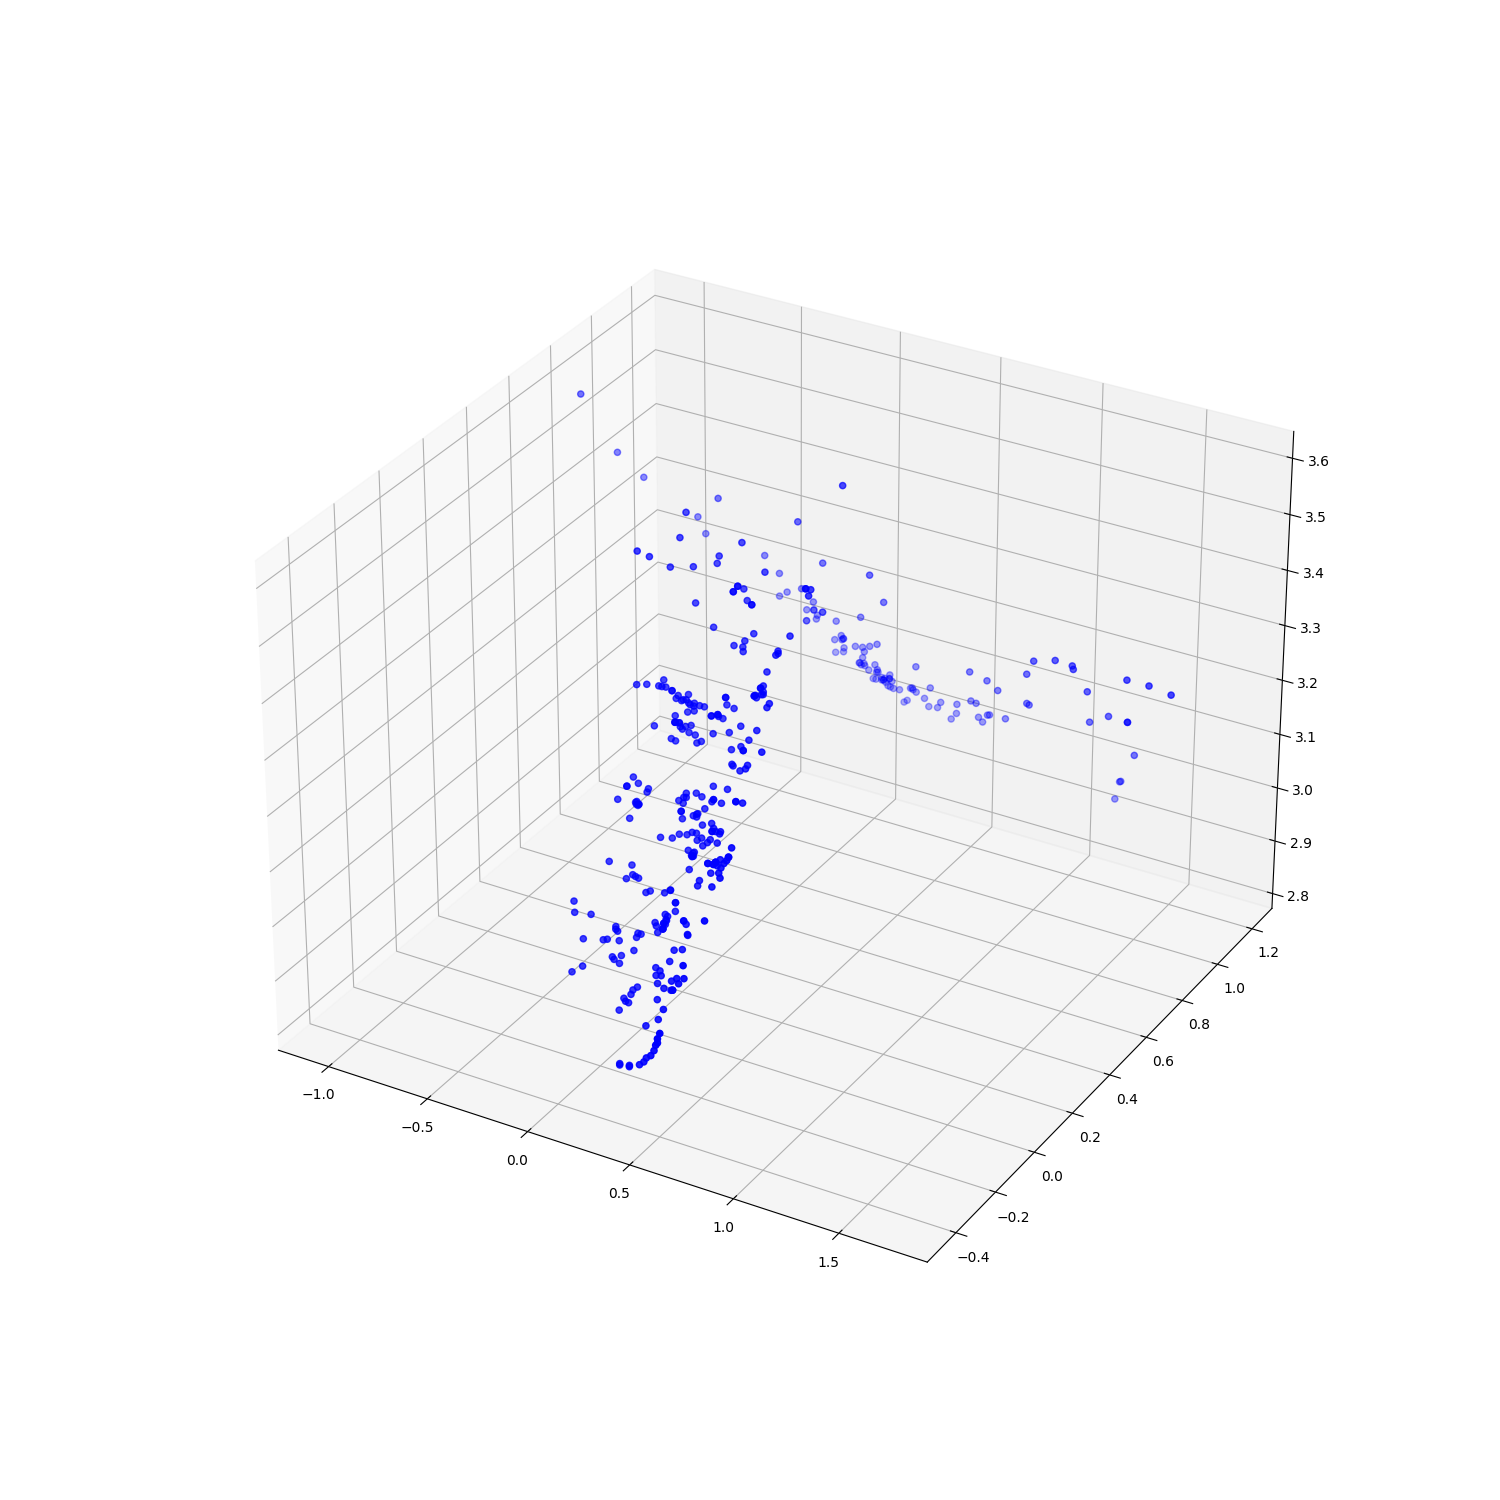
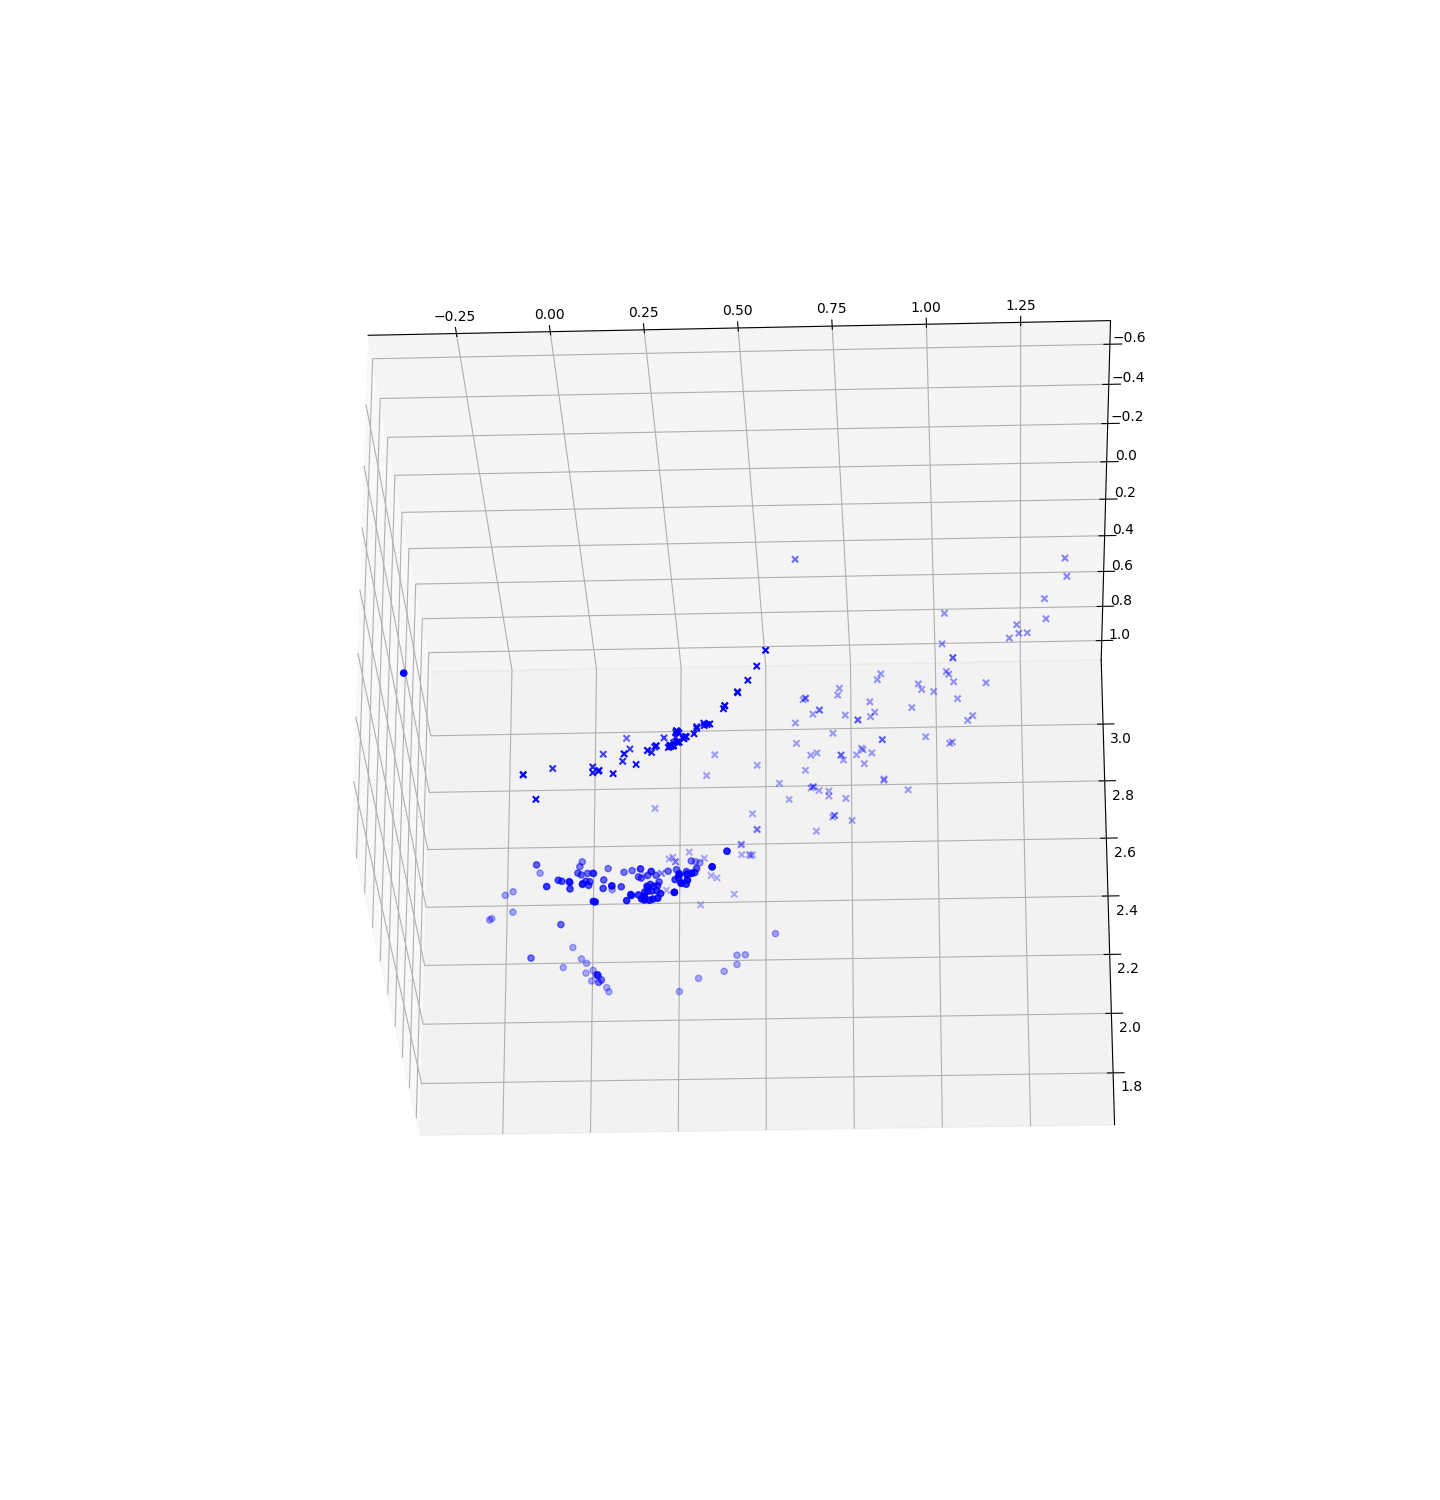
3view point cloud

diff --git a/PA2/SFM.py b/PA2/SFM.py
@@ -6,111 +6,222 @@ import matplotlib. pyplot as plt
 #%matplotlib inline
 import numpy as np
 import time
+from tqdm import tqdm
 
-img1_name = '08'
-img2_name = '09'
-img3_name = '10'
-res2 = None
+#---------setting----------
+image_num = 3
 threshold = 5.0e-5
-max_iter = 30000
+max_iter = 10000
+max_iter_pose = 3000
 inst = [[3451.5, 0.0, 2312.0],
        [0.0,3451.5, 1734.0],
        [0.0, 0.0, 1.0]]
+inst = np.array(inst)
+inst_1 = np.linalg.inv(inst)
 W = [[0.0, -1.0, 0.0],
      [1.0, 0.0, 0.0],
      [0.0, 0.0, 1.0]]
-print('step A')
-
-inst = np.array(inst)
-inst_1 = np.linalg.inv(inst)
 W = np.array(W)
-img1 = cv2.imread('./Data/sfm' + img1_name + '.jpg')
-gray1 = cv2.cvtColor(img1, cv2.COLOR_BGR2GRAY)
-img2 = cv2.imread('./Data/sfm' + img2_name + '.jpg')
-gray2 = cv2.cvtColor(img2, cv2.COLOR_BGR2GRAY)
-img3 = cv2.imread('./Data/sfm' + img3_name + '.jpg')
-gray3 = cv2.cvtColor(img3, cv2.COLOR_BGR2GRAY)
-
-sift = cv2.SIFT_create()
-
-kp1, des1 = sift.detectAndCompute(img1,None)
-kp2, des2 = sift.detectAndCompute(img2,None)
-kp3, des3 = sift.detectAndCompute(img3,None)
-
-bf = cv2.BFMatcher()
-matches = bf.knnMatch(des1,des2,k=2)
-
-good_kp1 = []
-good_kp2 = []
-good = []
-print_good = []
-
-for m,n in matches:
-    if m.distance < 0.75*n.distance:
-        good.append(m)
-        print_good.append([m])
-    
-good = sorted(good, key=lambda x: x.distance)
-query_idx = [match.queryIdx for match in good]
-train_idx = [match.trainIdx for match in good]
-good_kp1 = np.float32([kp1[ind].pt for ind in query_idx])
-good_kp2 = np.float32([kp2[ind].pt for ind in train_idx])
-max_idx = len(good_kp1)
-print(max_idx)
-
-"""res2 = cv2.drawMatchesKnn(img1,kp1,img2,kp2,good,res2, flags=2)
-res2 = cv2.resize(res2, dsize=(0, 0), fx=0.2, fy=0.2)
-cv2.imshow('SIFT', res2)
-cv2.waitKey()
-cv2.destroyAllWindows()
-time.sleep(10)"""
-one = np.ones((1, max_idx))
-good_kp1 = np.array(good_kp1).reshape(-1, 2)
-q1 = good_kp1.T
-q1 = np.append(q1, one, axis=0)
-
-good_kp2 = np.array(good_kp2).reshape(-1, 2)
-q2 = good_kp2.T
-q2 = np.append(q2, one, axis=0)
-
-#5-pts algorithms with RANSAC
 eng = matlab.engine.start_matlab()
 eng.addpath(r'/home/dongmin/2022_GIST_lec_CV-PA/PA2/Step2/', nargout=0)
-print('step B')
-E_est = None
-cnt_max = 0
-inlinear = None
-for iter in range(max_iter):
-    random_pt = np.random.randint(0, max_idx, size=5)
-    good_kp1_rand = good_kp1[random_pt].T
-    good_kp1_rand = np.append(good_kp1_rand, np.array([[1.0, 1.0, 1.0, 1.0, 1.0]]), axis = 0)
-    good_kp1_rand_in = (inst_1@good_kp1_rand).tolist()
-    good_kp1_rand_in = matlab.double(good_kp1_rand_in)
-    good_kp2_rand = good_kp2[random_pt].T
-    good_kp2_rand = np.append(good_kp2_rand, np.array([[1.0, 1.0, 1.0, 1.0, 1.0]]), axis = 0)
-    good_kp2_rand_in = (inst_1@good_kp2_rand).tolist()
-    good_kp2_rand_in = matlab.double(good_kp2_rand_in)
-    E = eng.calibrated_fivepoint(good_kp1_rand_in, good_kp2_rand_in)
-    E = np.array(E)
-    for i in range(len(E[0])):
-        Ei = E[:, i].reshape(3, 3)
-        det = np.linalg.det(Ei)
-        #Ei = Ei
-        F = inst_1.T@Ei@inst_1
-        #F = F.T
-        det = np.linalg.det(F)
-        const = 2 * Ei @ Ei.T @ Ei - np.trace(Ei@Ei.T)*Ei
-        loss = np.diag(good_kp2_rand.T@F@good_kp1_rand)
-        loss_all = np.diag(q2.T@F@q1)
-        cnt_all = sum(np.where(((loss_all < threshold) & (loss_all > -threshold)), True, False))
-        if cnt_max < cnt_all:
-            E_est = Ei
-            cnt_max = cnt_all
-            inlinear = np.where(((loss_all < threshold) & (loss_all > -threshold)))
-print(E_est)
-print(cnt_max)
-inlinear = np.array(inlinear).reshape(-1)
+P_all = np.array([[[1, 0, 0, 0], [0, 1, 0, 0], [0, 0, 1, 0]]])
+#Step 1. Feature Extraction & Matching in General
+print("----------------Step1----------------")
+print("Image Count:" + str(image_num))
+img_list = []
+for i in range(image_num):
+    img_list.append('./Data/sfm' + format(i, '02') + '.jpg')
 
+kp = []
+des = []
+img = []
+gray = []
+sift = cv2.SIFT_create()
+bf = cv2.BFMatcher()
+
+inlinear_x_all = np.array([])
+print_X = np.array([])
+print_Y = np.array([])
+print_Z = np.array([])
+
+for i, img_name in enumerate(tqdm(img_list, desc="image load and detect keypoint")):
+    _img = cv2.imread(img_name)
+    _gray = cv2.cvtColor(_img, cv2.COLOR_BGR2GRAY)
+    _kp, _des = sift.detectAndCompute(_img, None)
+    img.append(_img)
+    gray.append(_gray)
+    kp.append(_kp)
+    des.append(_des)
+    
+kp = np.array(kp)
+des = np.array(des)
+img = np.array(img)
+gray = np.array(gray)
+"""matches = np.array([[None]*image_num]*image_num)
+matches_cnt = np.array([[0]*image_num]*image_num)
+for i in tqdm(range(image_num), desc="match keypoint all images"):
+    for j in range(i):
+        _matches = bf.knnMatch(des[i], des[j], k=2)
+        good = []
+        #print_good = None
+        for m,n in _matches:
+            if m.distance < 0.75*n.distance:
+                good.append(m)
+                #print_good.append([m])
+        matches[i, j] = good
+        matches_cnt[i, j] = len(good)
+print(matches_cnt)
+
+
+#list images most matches with Floyd-Warshall Algorithm
+def floyd_warshall(n, data):
+    dist = data
+    for k in range(n):
+        for i in range(n):
+            for j in range(n):
+                dist[i][j] = max(dist[i][j], dist[i][k] + dist[k][j])
+    return dist
+
+print(floyd_warshall(image_num, matches_cnt))
+print("A")
+res2 = None
+
+inst = np.array(inst)
+inst_1 = np.linalg.inv(inst)"""
+matches = []
+matches_cnt = np.zeros(image_num-1)
+for i in tqdm(range(image_num-1), desc="match keypoint all images"):
+    _matches = bf.knnMatch(des[i], des[i+1], k=2)
+    good = []
+        #print_good = None
+    for m,n in _matches:
+        if m.distance < 0.75*n.distance:
+            good.append(m)
+            #print_good.append([m])
+    good = sorted(good, key=lambda x: x.distance)
+    matches.append(good)
+    matches_cnt[i] = len(good)
+matches = np.array(matches)
+ink = []
+for i in range(image_num-1):
+    image1_idx = i
+    image2_idx = i+1
+    print("image " + str(image1_idx) + " and " + str(image2_idx))
+    rel_idx = i
+    good_kp1 = []
+    good_kp2 = []
+    query_idx = [match.queryIdx for match in matches[rel_idx]]
+    train_idx = [match.trainIdx for match in matches[rel_idx]]
+    good_kp1 = np.float32([kp[image1_idx][ind].pt for ind in query_idx])
+    good_kp2 = np.float32([kp[image2_idx][ind].pt for ind in train_idx])
+    max_idx = len(good_kp1)
+    print(max_idx)
+    
+    one = np.ones((1, max_idx))
+    good_kp1 = np.array(good_kp1).reshape(-1, 2)
+    q1 = good_kp1.T
+    q1 = np.append(q1, one, axis=0)
+    
+    good_kp2 = np.array(good_kp2).reshape(-1, 2)
+    q2 = good_kp2.T
+    q2 = np.append(q2, one, axis=0)
+
+
+#5-pts algorithms with RANSAC
+
+    print('step B')
+    E_est = None
+    cnt_max = 0
+    inlinear = None
+    for iter in tqdm(range(max_iter)):
+        random_pt = np.random.randint(0, max_idx, size=5)
+        good_kp1_rand = good_kp1[random_pt].T
+        good_kp1_rand = np.append(good_kp1_rand, np.array([[1.0, 1.0, 1.0, 1.0, 1.0]]), axis = 0)
+        good_kp1_rand_in = (inst_1@good_kp1_rand).tolist()
+        good_kp1_rand_in = matlab.double(good_kp1_rand_in)
+        good_kp2_rand = good_kp2[random_pt].T
+        good_kp2_rand = np.append(good_kp2_rand, np.array([[1.0, 1.0, 1.0, 1.0, 1.0]]), axis = 0)
+        good_kp2_rand_in = (inst_1@good_kp2_rand).tolist()
+        good_kp2_rand_in = matlab.double(good_kp2_rand_in)
+        E = eng.calibrated_fivepoint(good_kp1_rand_in, good_kp2_rand_in)
+        E = np.array(E)
+        for j in range(len(E[0])):
+            Ei = E[:, j].reshape(3, 3)
+            det = np.linalg.det(Ei)
+            #Ei = Ei
+            F = inst_1.T@Ei@inst_1
+            #F = F.T
+            det = np.linalg.det(F)
+            const = 2 * Ei @ Ei.T @ Ei - np.trace(Ei@Ei.T)*Ei
+            loss = np.diag(good_kp2_rand.T@F@good_kp1_rand)
+            loss_all = np.diag(q2.T@F@q1)
+            cnt_all = sum(np.where(((loss_all < threshold) & (loss_all > -threshold)), True, False))
+            if cnt_max < cnt_all:
+                E_est = Ei
+                cnt_max = cnt_all
+                inlinear = np.where(((loss_all < threshold) & (loss_all > -threshold)))
+    print(cnt_max)
+    inlinear = np.array(inlinear).reshape(-1)
+    ink.append(len(inlinear))
+
+
+    print("step C")
+    U, s, VT = np.linalg.svd(E_est, full_matrices = True)
+    u3 = U[:, 2].reshape(3, 1)
+    P = [
+    np.append(U@W@VT, u3, axis=1),
+    np.append(U@W@VT, -u3, axis=1),
+    np.append(U@W.T@VT, u3, axis=1),
+    np.append(U@W.T@VT, -u3, axis=1)]
+#print(P1)
+#W = [[0, -1, 0], [1, 0, 0], [0, 0, 1]]
+
+    q1 = inst_1@q1
+    q2 = inst_1@q2
+    EM0 = np.append(np.eye(3), np.zeros((3, 1)), axis=1)
+    E_idx = None
+    for j in range(4):
+        EM1 = P[j]
+        A = np.array([q1[0, inlinear[0]]*EM0[2] - EM0[0],
+                  q1[1, inlinear[0]]*EM0[2] - EM0[1],
+                  q2[0, inlinear[0]]*EM1[2] - EM1[0],
+                  q2[1, inlinear[0]]*EM1[2] - EM1[1]])
+        U_A, s_A, V_A = np.linalg.svd(A, full_matrices=True)
+        X = V_A[3]/V_A[3, 3]
+        print(X)
+        if X[2]>0 and (EM1@X)[2]>0:
+            print("E index is " + str(j))
+            E_idx = j
+    EM1 = P[E_idx]
+    P_all =np.concatenate((P_all, EM1.reshape(1, 3, 4)), axis=0)
+    inlinear_X = []
+
+    for k in range(len(inlinear)):
+        A = np.array([q1[0, inlinear[k]]*EM0[2] - EM0[0],
+                  q1[1, inlinear[k]]*EM0[2] - EM0[1],
+                  q2[0, inlinear[k]]*EM1[2] - EM1[0],
+                  q2[1, inlinear[k]]*EM1[2] - EM1[1]])
+        U_A, s_A, V_A = np.linalg.svd(A, full_matrices=True)
+        X = V_A[3]/V_A[3, 3]
+        inlinear_X.append(X[:3])
+    inlinear_X = np.array(np.linalg.inv(P_all[i, :, :3])@(np.array(inlinear_X)-P_all[i, :, 3]).T).T
+    #inlinear_X_all = np.append(inlinear_x_all, inlinear_X, axis=0)
+    print_X = np.append(print_X, inlinear_X[:, 0])
+    print_Y = np.append(print_Y, inlinear_X[:, 1])
+    print_Z = np.append(print_Z, inlinear_X[:, 2])
+    print(len(print_X))
+print("----------------End----------------")
+print(P_all.shape)
+print(len(print_X))
+fig = plt.figure(figsize=(15, 15))
+ax = plt.axes(projection='3d')
+ax.scatter3D(print_X[:ink[0]], print_Y[:ink[0]], print_Z[:ink[0]], c='b', marker='o')
+ax.scatter3D(print_X[ink[0]:], print_Y[ink[0]:], print_Z[ink[0]:], c='b', marker='x')
+plt.show()
+
+"""    print("camera pose")
+    for iter_pose in range(max_iter_pose):
+        random_pt = np.random.randint(0, max_idx, size=3)"""
 """E_min = None
     s_min = 1e+200
     for i in range(len(E[0])):
@@ -139,65 +250,8 @@ inlinear = np.array(inlinear).reshape(-1)
 print(E_est)
 print(s_est) """
 
-print("step C")
-U, s, VT = np.linalg.svd(E_est, full_matrices = True)
-u3 = U[:, 2].reshape(3, 1)
-P = [
-np.append(U@W@VT, u3, axis=1),
-np.append(U@W@VT, -u3, axis=1),
-np.append(U@W.T@VT, u3, axis=1),
-np.append(U@W.T@VT, -u3, axis=1)]
-#print(P1)
-#W = [[0, -1, 0], [1, 0, 0], [0, 0, 1]]
 """res2 = cv2.drawMatchesKnn(img1,kp1,img2,kp2,good,res2,flags=2)        
 res2 = cv2.resize(res2, dsize=(0, 0), fx=0.5, fy=0.5)
 cv2.imshow("BF with SIFT",res2)
 cv2.waitKey(0)
 cv2.d """
-q1 = inst_1@q1
-q2 = inst_1@q2
-EM0 = np.append(np.eye(3), np.zeros((3, 1)), axis=1)
-E_idx = NonPrintableDefect
-for j in range(4):
-    EM1 = P[j]
-    A = np.array([q1[0, inlinear[i]]*EM0[2] - EM0[0],
-                  q1[1, inlinear[i]]*EM0[2] - EM0[1],
-                  q2[0, inlinear[i]]*EM1[2] - EM1[0],
-                  q2[1, inlinear[i]]*EM1[2] - EM1[1]])
-    U_A, s_A, V_A = np.linalg.svd(A, full_matrices=True)
-    X = V_A[3]/V_A[3, 3]
-    print(X)
-    print(EM1@X)
-    if X[2]>0 and (EM1@X)[2]>0:
-        print("E index is " + str(j))
-        E_idx = j
-EM1 = P[E_idx]
-
-inlinear_X = []
-
-for i in range(len(inlinear)):
-    A = np.array([q1[0, inlinear[i]]*EM0[2] - EM0[0],
-                  q1[1, inlinear[i]]*EM0[2] - EM0[1],
-                  q2[0, inlinear[i]]*EM1[2] - EM1[0],
-                  q2[1, inlinear[i]]*EM1[2] - EM1[1]])
-    U_A, s_A, V_A = np.linalg.svd(A, full_matrices=True)
-    X = V_A[3]/V_A[3, 3]
-    inlinear_X.append(X[:3])
-inlinear_X = np.array(inlinear_X)
-
-print_X = np.array([])
-print_Y = np.array([])
-print_Z = np.array([])
-print_X = np.append(print_X, inlinear_X[:, 0])
-print_Y = np.append(print_Y, inlinear_X[:, 1])
-print_Z = np.append(print_Z, inlinear_X[:, 2])
-fig = plt.figure(figsize=(15, 15))
-ax = plt.axes(projection='3d')
-ax.scatter3D(print_X, print_Y, print_Z, c='b', marker='o')
-plt.show()
-
-matches2 = bf.knnMatch(des2,des3,k=2)
-for m,n in matches:
-    if m.distance < 0.75*n.distance:
-        good.append(m)
-        print_good.append([m])
